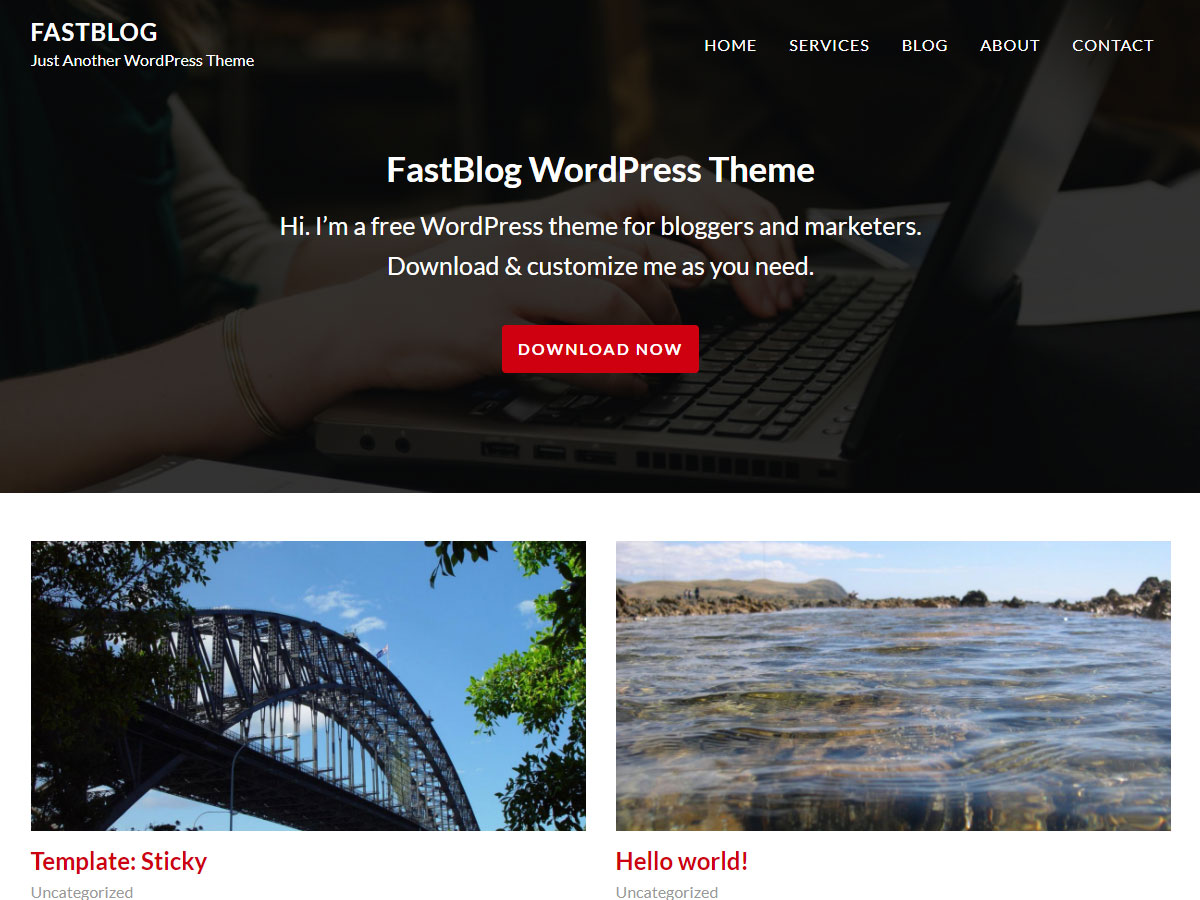
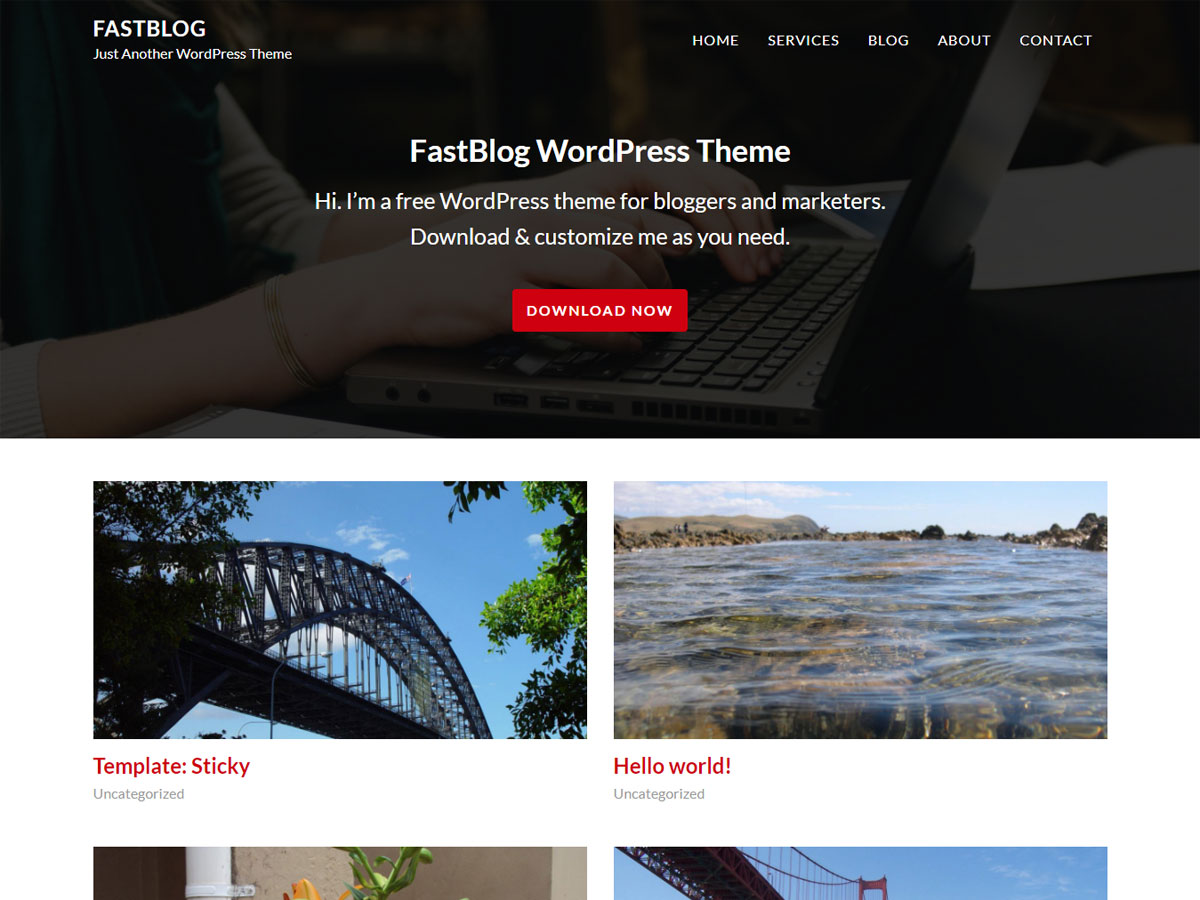
Fixes site hero heading

diff --git a/style.css b/style.css
@@ -1141,11 +1141,12 @@ a img.aligncenter {
   }
 }
 .site-hero {
+  padding: 1.5rem 0 3.5rem 0;
   text-align: center;
 }
 @media (min-width: 992px) {
   .site-hero {
-    padding: 1.6em 0 4.8em 0;
+    padding: 3.5rem 0 6rem 0;
   }
 }
 .site-footer {

diff --git a/less/style.less b/less/style.less
@@ -247,10 +247,11 @@
 }
 
 .site-hero {
+	padding: 1.5rem 0 3.5rem 0;
 	text-align: center;
 
 	@media( min-width: @screen-md ) {
-		padding: @base-line-height-em 0 ( @base-line-height-em * 3 ) 0;
+		padding: 3.5rem 0 6rem 0;
 	}
 }
 

diff --git a/template-parts/content-hero.php b/template-parts/content-hero.php
@@ -24,8 +24,13 @@ if ( ! $hero_page_id ) {
 
 		while ( $hero_pages->have_posts() ) :
 			$hero_pages->the_post();
-			get_template_part( 'template-parts/content', 'page' );
-		endwhile;
+
+			the_title( '<div class="entry-header"><p class="entry-title h1">', '</p></div>' ); ?>
+
+			<div class="entry-content">
+				<?php the_content(); ?>
+			</div>
+		<?php endwhile;
 
 		wp_reset_postdata();
 		?>
